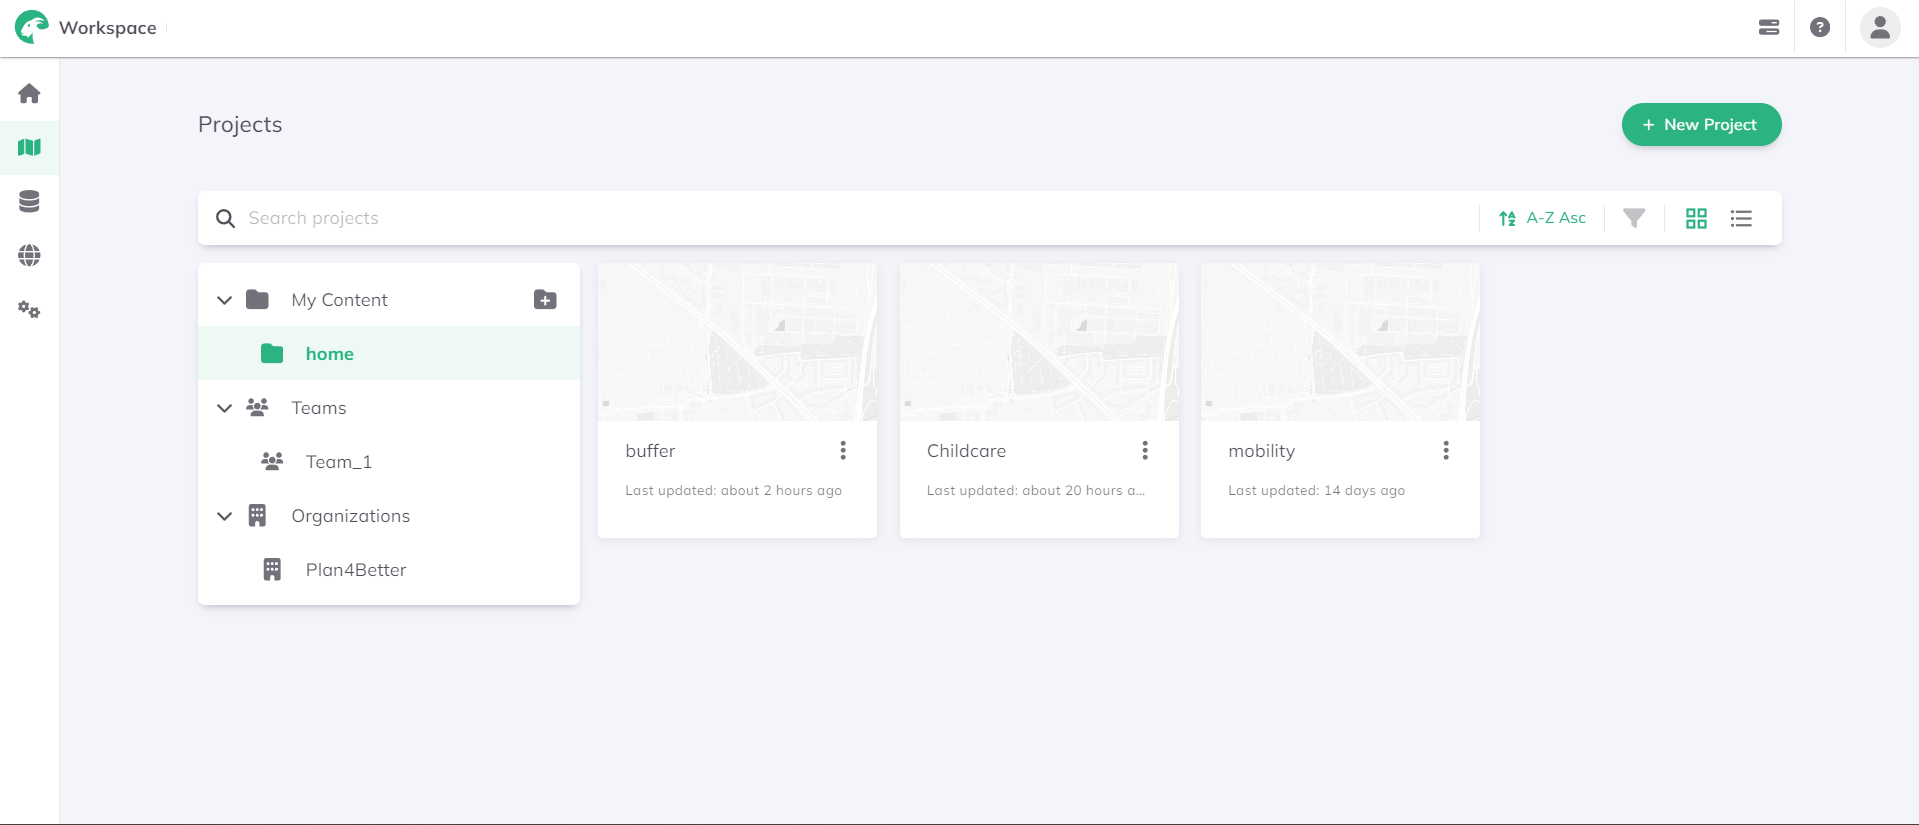
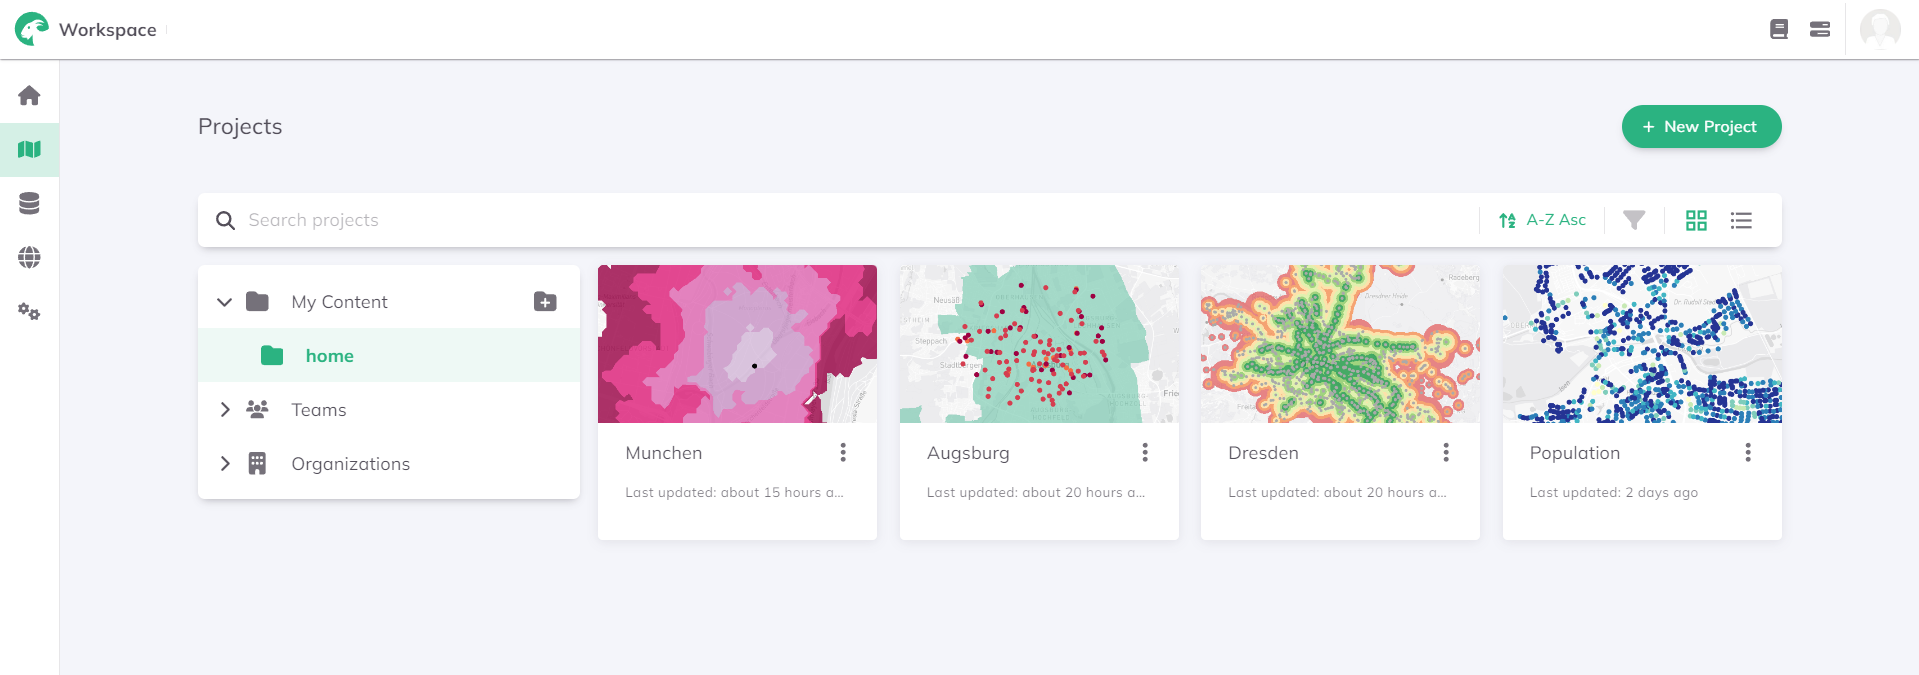
Images for projects and datasets pages are updated

diff --git a/docs/workspace/datasets.md b/docs/workspace/datasets.md
@@ -6,6 +6,11 @@ sidebar_position: 3
 
 On the **Datasets** page, data can be **uploaded, managed and shared**. The page provides users with an organised view of their datasets, categorised by personal datasets, team datasets and datasets that are shared with the whole organization. Furthermore, datasets can be organized in **folders**, **filtered** and **sorted** based on alphabet, creation date or their last update. Projects can also be **deleted**, **downloaded** and their **metadata** edited. 
 
+<div style={{ display: 'flex', flexDirection: 'column', alignItems: 'center'}}>
+  <img src={require('/img/workspace/datasets/datasets_general.png').default} alt="Datasets Page in Workspace of GOAT" style={{ maxHeight: "auto", maxWidth: "auto", objectFit: "cover"}}/>
+
+</div> 
+
 ## Upload data
 
 GOAT supports the upload of **GeoPackage, GeoJSON, Shapefile, KML, CSV**, and **XLSX** files. Follow these steps to add a dataset via the Workspace:
